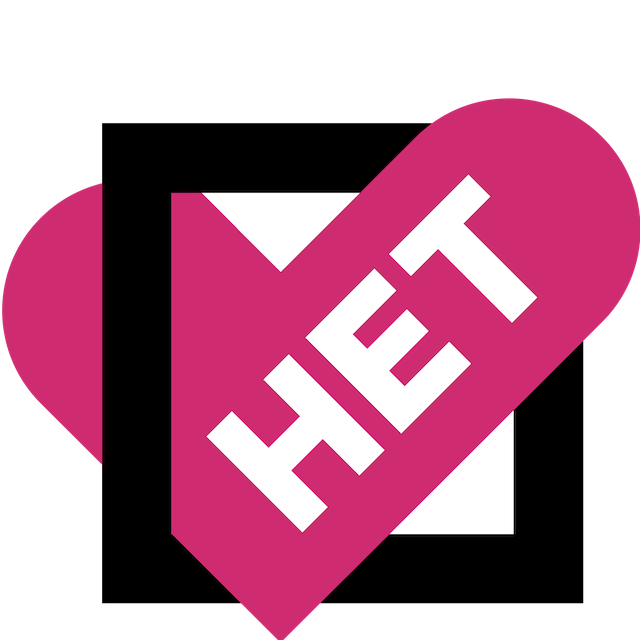
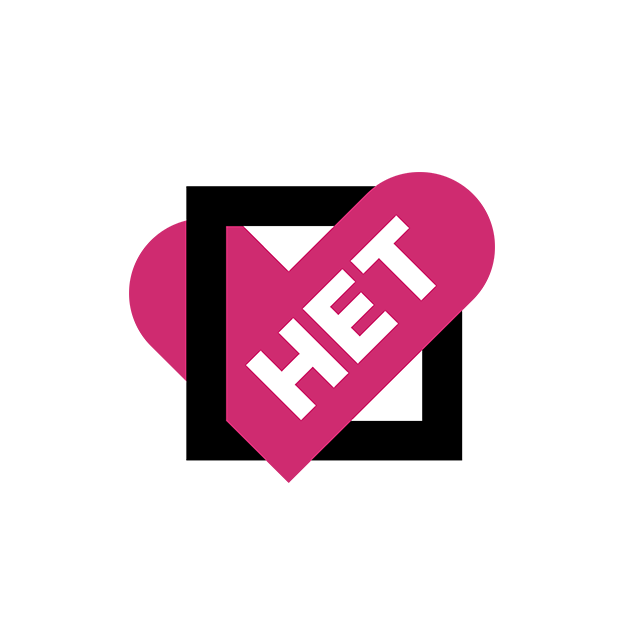
resize

diff --git a/watermark.go b/watermark.go
@@ -13,8 +13,10 @@ import (
 	"os"
 	"time"
 
-	tgbotapi "github.com/go-telegram-bot-api/telegram-bot-api"
 	"github.com/google/uuid"
+	"github.com/nfnt/resize"
+
+	tgbotapi "github.com/go-telegram-bot-api/telegram-bot-api"
 	tgbot "github.com/wawan93/bot-framework"
 )
 
@@ -87,8 +89,13 @@ func generate(background, watermark io.Reader) (io.Reader, error) {
 		return nil, fmt.Errorf("failed to decode: %s", err)
 	}
 
-	offset := image.Pt(0, 0)
 	b := first.Bounds()
+
+	mark = resizeMark(mark, b)
+
+	offsetY := b.Dy() - mark.Bounds().Dy()
+	offset := image.Pt(0, offsetY)
+
 	image3 := image.NewRGBA(b)
 	draw.Draw(image3, b, first, image.Point{}, draw.Src)
 	draw.Draw(image3, mark.Bounds().Add(offset), mark, image.Point{}, draw.Over)
@@ -97,6 +104,22 @@ func generate(background, watermark io.Reader) (io.Reader, error) {
 	jpeg.Encode(&buf, image3, &jpeg.Options{jpeg.DefaultQuality})
 
 	return &buf, nil
+}
+
+func resizeMark(img image.Image, b image.Rectangle) image.Image {
+	var w, h uint
+
+	if b.Dx() > b.Dy() {
+		h = uint(b.Dy() / 2)
+		w = h
+	}
+
+	if b.Dx() <= b.Dy() {
+		w = uint(b.Dx() / 2)
+		h = w
+	}
+
+	return resize.Resize(w, h, img, resize.Lanczos2)
 }
 
 func randomName() string {

diff --git a/main.go b/main.go
@@ -44,20 +44,30 @@ func main() {
 
 func getUpdatesChannel(api *tgbotapi.BotAPI, webhookAddress string) tgbotapi.UpdatesChannel {
 	var updates tgbotapi.UpdatesChannel
-	if os.Getenv("APP_ENV") == "development" {
-		u := tgbotapi.NewUpdate(0)
-		u.Timeout = 60
-		updates, _ = api.GetUpdatesChan(u)
-	} else if os.Getenv("APP_ENV") == "production" {
+	if os.Getenv("APP_ENV") == "production" {
 		_, err := api.SetWebhook(tgbotapi.NewWebhook(
 			"https://" + webhookAddress + "/no",
 		))
 		if err != nil {
 			log.Fatal(err)
 		}
+
 		updates = api.ListenForWebhook("/no")
+
 		go http.ListenAndServe("0.0.0.0:80", nil)
+
+		return updates
 	}
+
+	_, err := api.RemoveWebhook()
+	if err != nil {
+		log.Fatalf("can't remove webhook: %v", err)
+	}
+
+	u := tgbotapi.NewUpdate(0)
+	u.Timeout = 60
+
+	updates, _ = api.GetUpdatesChan(u)
 	return updates
 }
 
